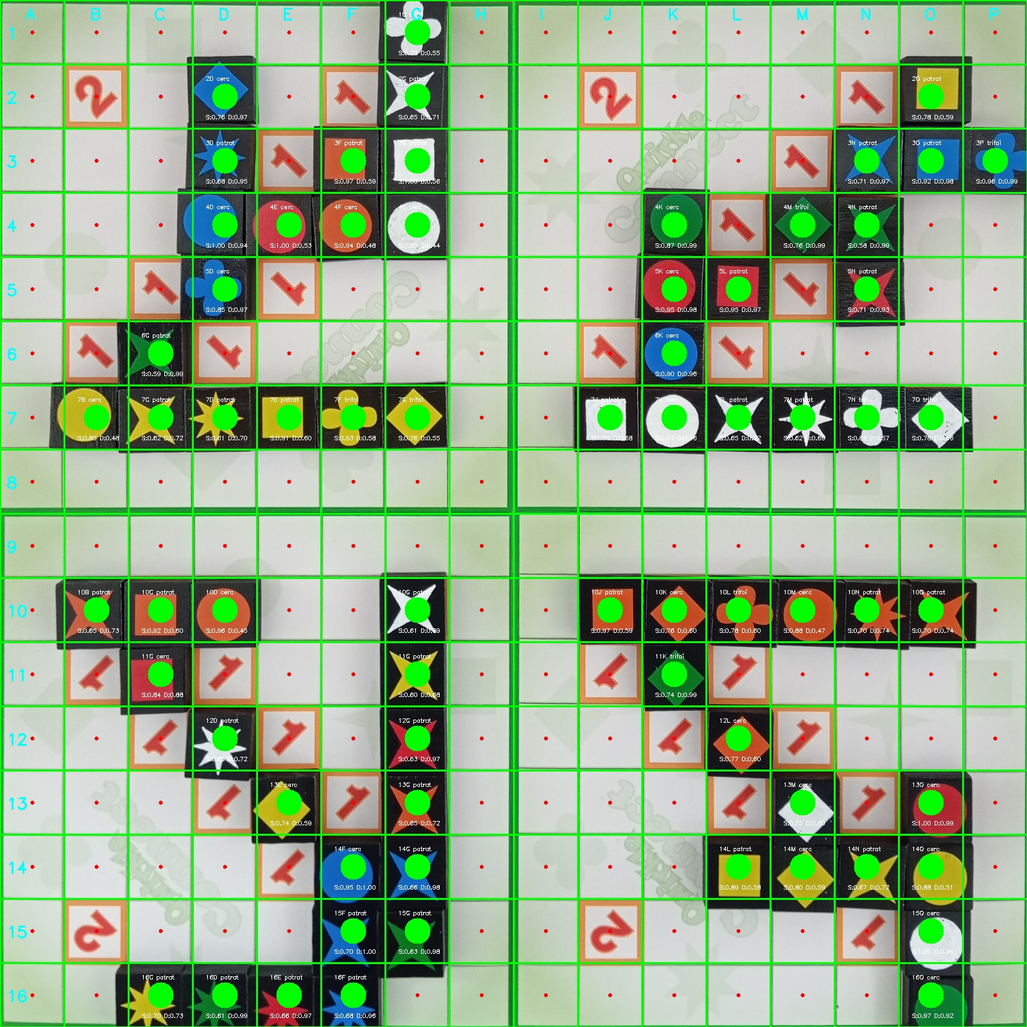
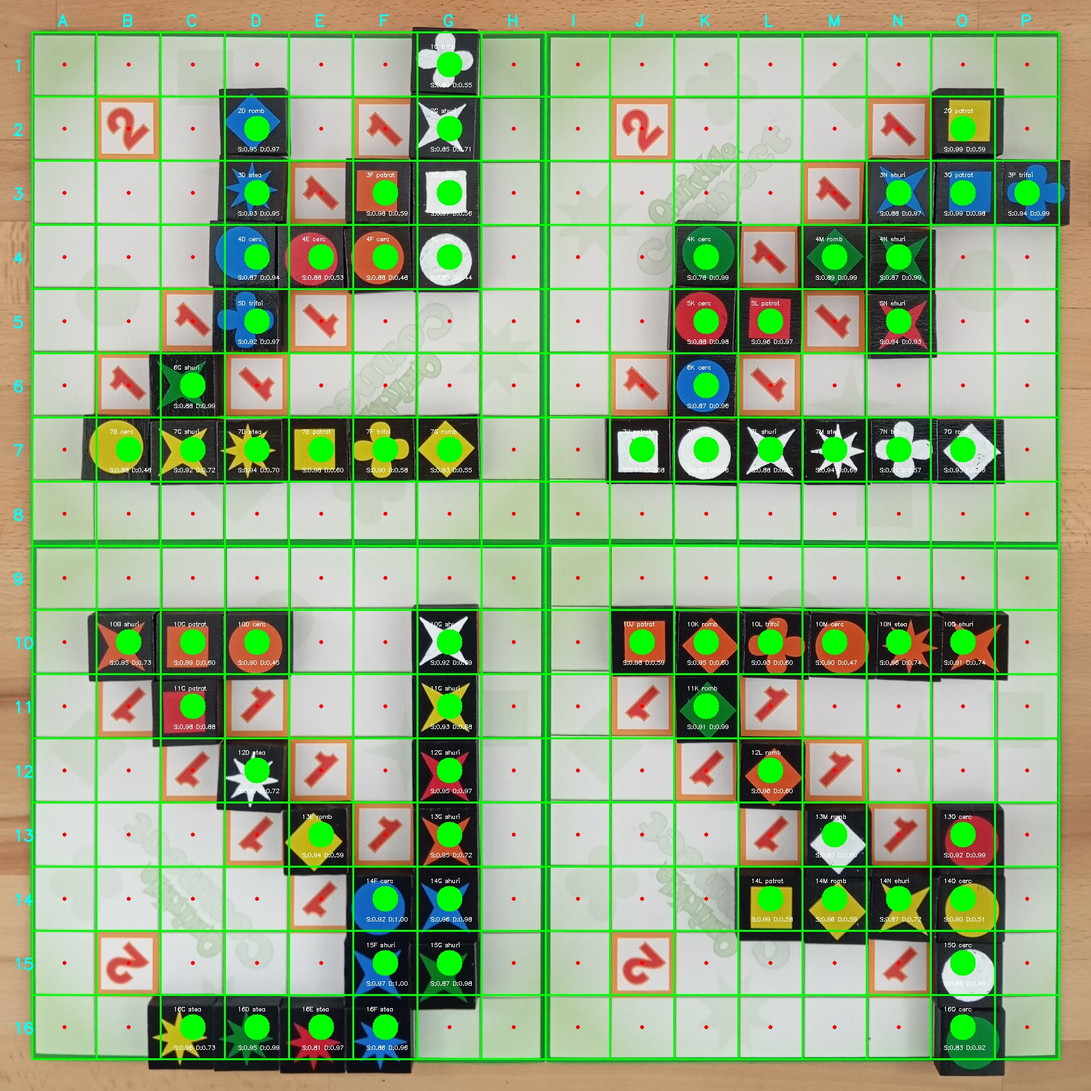
Improve Qwirkle piece detection and add debug patches
Enhanced piece detection by adding padding to board extraction, using larger patches for template matching, and refining grid drawing and labeling. Added debug patch saving for specific cells and updated template management. Replaced and added several template images, and removed an obsolete template.

diff --git a/detectie_piese_qwirkle.py b/detectie_piese_qwirkle.py
@@ -82,10 +82,17 @@ def extrage_careu(img):
     rect[1] = pts[np.argmin(diff)]
     rect[3] = pts[np.argmax(diff)]
 
-    width = 1600
-    height = 1600
+    # Adaugam padding pentru a capta si marginile
+    padding = 50  # pixeli extra pe fiecare parte
+    width = 1600 + 2 * padding
+    height = 1600 + 2 * padding
     
-    destination_of_puzzle = np.array([[0,0],[width,0],[width,height],[0,height]], dtype="float32")
+    destination_of_puzzle = np.array([
+        [padding, padding],
+        [width - padding, padding],
+        [width - padding, height - padding],
+        [padding, height - padding]
+    ], dtype="float32")
 
     M = cv.getPerspectiveTransform(rect, destination_of_puzzle)
 
@@ -93,7 +100,7 @@ def extrage_careu(img):
     
     return result
 
-def load_templates(template_folder):
+def load_templates(template_folder, target_size=100):
     templates = []
     if not os.path.exists(template_folder):
         print(f"Folderul {template_folder} nu exista!")
@@ -106,6 +113,7 @@ def load_templates(template_folder):
                 path = os.path.join(root, file)
                 img = cv.imread(path)
                 if img is not None:
+                    # Nu redimensionam, pastram dimensiunea originala
                     # Convertim la HSV
                     img_hsv = cv.cvtColor(img, cv.COLOR_BGR2HSV)
                     
@@ -121,32 +129,27 @@ def load_templates(template_folder):
                     templates.append((label, img_hsv))
     return templates
 
-def match_cell(cell_hsv, templates, threshold=0.6):
-    best_score = -1
-def match_cell(cell_hsv, templates, threshold=0.6, top_k=5):
+def match_cell(cell_hsv, templates, threshold=0.6, top_k=5, debug_coord=None):
     # Lista pentru a stoca toate potrivirile: (scor, label)
     all_matches = []
     
-    h_cell, w_cell, _ = cell_hsv.shape
-    
     for label, tmpl in templates:
-        # Redimensionam template-ul la dimensiunea celulei
-        tmpl_resized = cv.resize(tmpl, (w_cell, h_cell))
+        # Nu redimensionam - matchTemplate functioneaza cu dimensiuni diferite
         
         best_tmpl_score = -1
         
         # Rotim template-ul 0, 90, 180, 270 grade
         for angle in [0, 90, 180, 270]:
             if angle == 0:
-                rotated_tmpl = tmpl_resized
+                rotated_tmpl = tmpl
             elif angle == 90:
-                rotated_tmpl = cv.rotate(tmpl_resized, cv.ROTATE_90_CLOCKWISE)
+                rotated_tmpl = cv.rotate(tmpl, cv.ROTATE_90_CLOCKWISE)
             elif angle == 180:
-                rotated_tmpl = cv.rotate(tmpl_resized, cv.ROTATE_180)
+                rotated_tmpl = cv.rotate(tmpl, cv.ROTATE_180)
             elif angle == 270:
-                rotated_tmpl = cv.rotate(tmpl_resized, cv.ROTATE_90_COUNTERCLOCKWISE)
+                rotated_tmpl = cv.rotate(tmpl, cv.ROTATE_90_COUNTERCLOCKWISE)
             
-            # Match pe canalul V (Grayscale) - S-ul poate fi zgomotos din cauza reflexiilor
+            # Match pe canalul V (Grayscale)
             res_v = cv.matchTemplate(cell_hsv[:,:,2], rotated_tmpl[:,:,2], cv.TM_CCOEFF_NORMED)
             score = np.max(res_v)
             
@@ -157,6 +160,12 @@ def match_cell(cell_hsv, templates, threshold=0.6, top_k=5):
     
     # Sortam descrescator dupa scor
     all_matches.sort(key=lambda x: x[0], reverse=True)
+    
+    # DEBUG: Afisam toate scorurile pentru debug_coord
+    if debug_coord:
+        print(f"\n  === Scoruri pentru {debug_coord} ===")
+        for score, label in all_matches:
+            print(f"    {label}: {score:.3f}")
     
     # Filtram cele sub prag
     valid_matches = [m for m in all_matches if m[0] > threshold]
@@ -189,8 +198,12 @@ def match_cell(cell_hsv, templates, threshold=0.6, top_k=5):
 # --- MAIN ---
 
 GRID_SIZE = 16
-IMG_SIZE = 1600
-CELL_SIZE = IMG_SIZE // GRID_SIZE
+IMG_SIZE = 1700  # 1600 + 2*50 padding
+CELL_SIZE = 1600 // GRID_SIZE  # Celula ramane 100x100
+CELL_OFFSET = 50  # Offset pentru prima celula (padding)
+PATCH_SIZE = 138  # Dimensiunea patch-ului extras din imagine
+TEMPLATE_SIZE = 100  # Dimensiunea la care redimensionam template-urile
+MARGIN = (PATCH_SIZE - CELL_SIZE) // 2  # Margin pe fiecare parte
 MATCH_THRESHOLD = 0.40
 
 # Cream folderul pentru imagini detectate
@@ -198,7 +211,7 @@ output_folder = 'detectate'
 if not os.path.exists(output_folder):
     os.makedirs(output_folder)
 
-# Incarcam template-urile o singura data
+# Incarcam template-urile o singura data (la dimensiunea lor originala)
 templates = load_templates('templates')
 print(f"Am incarcat {len(templates)} template-uri.\n")
 
@@ -226,6 +239,9 @@ if os.path.exists(input_folder):
             print(f"\nProcesare: {file}")
             board = extrage_careu(img)
             
+            # Nume fisier fara extensie pentru folder debug
+            base_name = os.path.splitext(file)[0]
+            
             # Board deja este 1600x1600 din extrage_careu
             gray_board = cv.cvtColor(board, cv.COLOR_BGR2GRAY)
             hsv_board = cv.cvtColor(board, cv.COLOR_BGR2HSV)
@@ -237,26 +253,53 @@ if os.path.exists(input_folder):
             
             for row in range(GRID_SIZE):
                 for col in range(GRID_SIZE):
-                    x1 = col * CELL_SIZE
-                    y1 = row * CELL_SIZE
+                    # Adaugam offset-ul pentru padding
+                    x1 = CELL_OFFSET + col * CELL_SIZE
+                    y1 = CELL_OFFSET + row * CELL_SIZE
                     x2 = x1 + CELL_SIZE
                     y2 = y1 + CELL_SIZE
                     
-                    # Extract celula
-                    cell_hsv = hsv_board[y1:y2, x1:x2]
+                    # Extract patch mai mare pentru matching mai bun
+                    patch_x1 = max(0, x1 - MARGIN)
+                    patch_y1 = max(0, y1 - MARGIN)
+                    patch_x2 = min(IMG_SIZE, x2 + MARGIN)
+                    patch_y2 = min(IMG_SIZE, y2 + MARGIN)
+                    
+                    # Extract celula pentru verificare continut
                     cell_gray = gray_board[y1:y2, x1:x2]
+                    
+                    # Extract patch pentru matching
+                    cell_hsv = hsv_board[patch_y1:patch_y2, patch_x1:patch_x2]
+                    # Resize doar pentru a normaliza dimensiunea in caz de margini
+                    cell_hsv = cv.resize(cell_hsv, (PATCH_SIZE, PATCH_SIZE))
                     
                     # Verificare intensitate - o piesa ar trebui sa aiba zone intunecate
                     cell_median = np.median(cell_gray)
                     dark_pixels = np.sum(cell_gray < 100)
                     dark_ratio = dark_pixels / cell_gray.size
                     
+                    # Calculam coordonatele pentru debug (A-P, 1-16)
+                    col_letter = chr(65 + col)
+                    row_number = row + 1
+                    cell_coord = f"{row_number}{col_letter}"
+                    
                     # O piesa Qwirkle are parte neagra (forma) si parte colorata
                     # Dark ratio ar trebui sa fie peste 40% (pentru a elimina linii de grid si umbre)
                     has_valid_dark_content = dark_ratio > 0.40
                     
                     # Template Matching pe HSV (V + S)
-                    is_match, score, name = match_cell(cell_hsv, templates, 0.55)
+                    debug_param = cell_coord if cell_coord in ["16O", "4G"] else None
+                    is_match, score, name = match_cell(cell_hsv, templates, 0.55, debug_coord=debug_param)
+                    
+                    # DEBUG pentru 16O si 4G
+                    if cell_coord in ["16O", "4G"]:
+                        print(f"\n=== DEBUG {cell_coord} ===")
+                        print(f"  Score: {score:.3f}")
+                        print(f"  Is_match: {is_match}")
+                        print(f"  Template name: {name}")
+                        print(f"  Dark ratio: {dark_ratio:.3f}")
+                        print(f"  Has valid dark content: {has_valid_dark_content}")
+                        print(f"  Final is_piece: {is_match and has_valid_dark_content}")
                     
                     # FILTRARE NEGATIVA: ignoram 1sus, 2sus, 1jos, 2jos
                     if name and ('sus' in name.lower() or 'jos' in name.lower()):
@@ -264,6 +307,17 @@ if os.path.exists(input_folder):
                     
                     # Combinam: Match SI are continut intunecat valid
                     is_piece = is_match and has_valid_dark_content
+                    
+                    # DEBUG: Salvam patch-urile pentru 15O si 16O
+                    if cell_coord in ["15O", "16O", "15L", "4D", "4G"]:
+                        debug_folder = os.path.join(output_folder, 'debug_patches', base_name)
+                        os.makedirs(debug_folder, exist_ok=True)
+                        
+                        # Salvam patch-ul HSV convertit la BGR
+                        patch_bgr = cv.cvtColor(cell_hsv, cv.COLOR_HSV2BGR)
+                        patch_path = os.path.join(debug_folder, f"{cell_coord}_patch_138x138.jpg")
+                        cv.imwrite(patch_path, patch_bgr)
+                        print(f"  Salvat patch: {cell_coord}_patch_138x138.jpg")
                     
                     center_x = x1 + CELL_SIZE // 2
                     center_y = y1 + CELL_SIZE // 2
@@ -291,25 +345,26 @@ if os.path.exists(input_folder):
             
             print(f"  Piese detectate: {detected_count}")
             
-            # Desenam grila
-            lines = np.linspace(0, IMG_SIZE, GRID_SIZE + 1)
-            for val in lines:
-                p = int(val)
-                cv.line(output, (p, 0), (p, IMG_SIZE), (0, 255, 0), 2)
-                cv.line(output, (0, p), (IMG_SIZE, p), (0, 255, 0), 2)
+            # Desenam grila doar pe zona board-ului (ignoram padding-ul)
+            for i in range(GRID_SIZE + 1):
+                p = CELL_OFFSET + i * CELL_SIZE
+                # Linii verticale
+                cv.line(output, (p, CELL_OFFSET), (p, CELL_OFFSET + GRID_SIZE * CELL_SIZE), (0, 255, 0), 2)
+                # Linii orizontale
+                cv.line(output, (CELL_OFFSET, p), (CELL_OFFSET + GRID_SIZE * CELL_SIZE, p), (0, 255, 0), 2)
             
             # Adaugam etichetele pentru coloane (A-P) si randuri (1-16)
             font = cv.FONT_HERSHEY_SIMPLEX
             for i in range(GRID_SIZE):
                 # Coloane (A-P)
                 col_label = chr(65 + i)  # A=65 in ASCII
-                x_pos = int((i + 0.5) * CELL_SIZE)
-                cv.putText(output, col_label, (x_pos - 10, 30), font, 0.8, (255, 255, 0), 2)
+                x_pos = CELL_OFFSET + int((i + 0.5) * CELL_SIZE)
+                cv.putText(output, col_label, (x_pos - 10, CELL_OFFSET - 10), font, 0.8, (255, 255, 0), 2)
                 
                 # Randuri (1-16)
                 row_label = str(i + 1)
-                y_pos = int((i + 0.5) * CELL_SIZE)
-                cv.putText(output, row_label, (10, y_pos + 10), font, 0.8, (255, 255, 0), 2)
+                y_pos = CELL_OFFSET + int((i + 0.5) * CELL_SIZE)
+                cv.putText(output, row_label, (CELL_OFFSET - 30, y_pos + 10), font, 0.8, (255, 255, 0), 2)
             
             # Salvam in folderul separat
             output_path = os.path.join(output_folder, file.replace('.jpg', '_detected.jpg'))
